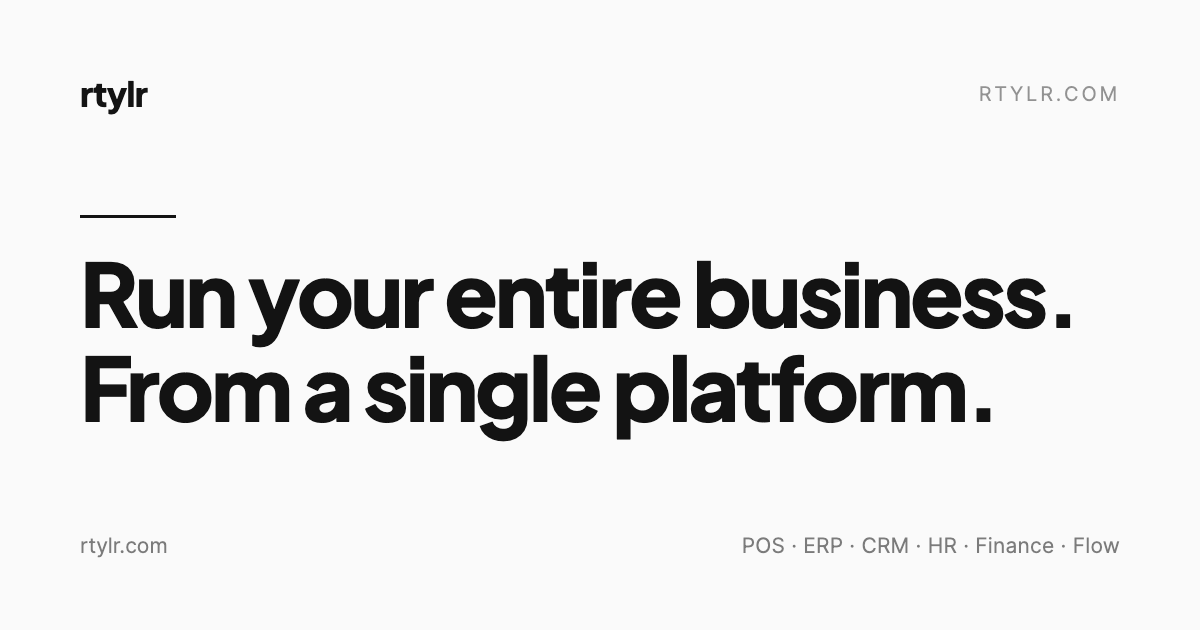
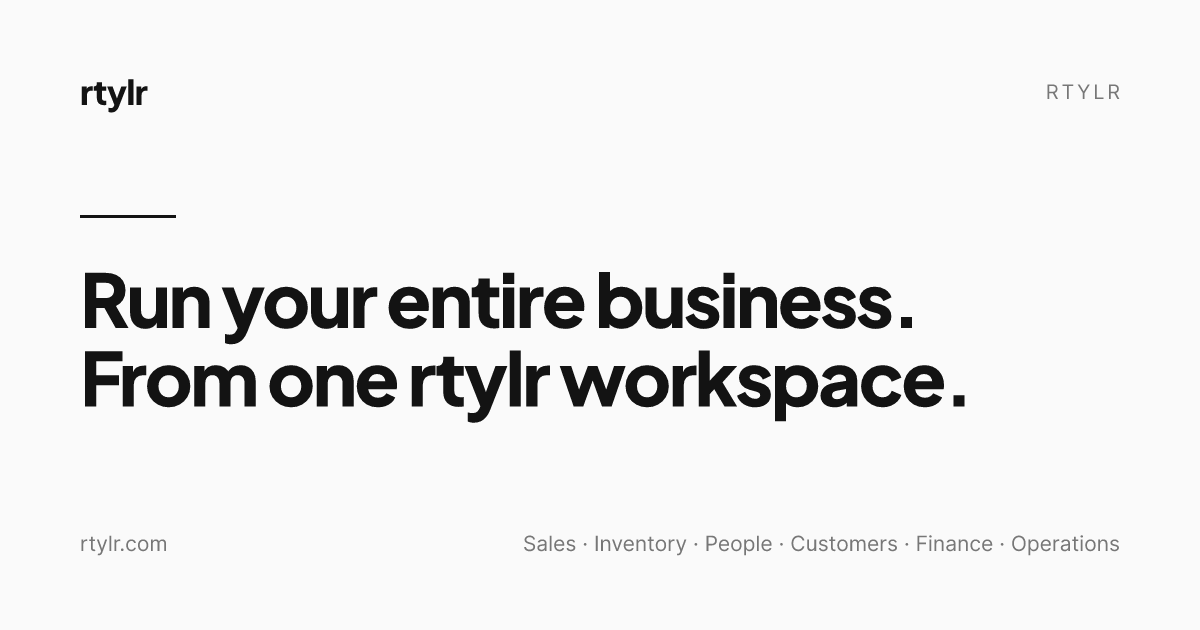
Reframe landing copy around rtylr suite

diff --git a/apps/landing/pages/about/index.tsx b/apps/landing/pages/about/index.tsx
@@ -26,8 +26,6 @@ const CLUSTER_APPS: string[][] = [
   ['HR', 'Flow', 'Insights'],
 ];
 
-
-
 const AboutPage = (): React.JSX.Element => {
   const { t } = useTranslation();
   const clusters = t('about.clusters', { returnObjects: true }) as unknown as {
@@ -57,7 +55,7 @@ const AboutPage = (): React.JSX.Element => {
           canonical="https://rtylr.com/about/"
           structuredData={aboutPageSchema({
             description:
-              "We're building the operating system for commerce. One platform for POS, ERP, HR, CRM, Finance, Flow and Insights.",
+              "We're building the operating system for commerce. One rtylr suite for sales, inventory, people, customers, finance and operations.",
           })}
         />
 
@@ -78,9 +76,9 @@ const AboutPage = (): React.JSX.Element => {
                 <Lines text={t('about.hero.title')} />
               </motion.h1>
               <motion.p className={styles.heroSubtitle} variants={blurFadeIn}>
-                Most small businesses run on six to eight disconnected apps. They export CSVs all
-                Friday. They reconcile on Sundays. They pay for integrations they hate. We think
-                that&apos;s a bug in the industry. rtylr is our fix.
+                Many small businesses still run on disconnected tools. They export CSVs all Friday.
+                They reconcile on Sundays. They pay for integrations they hate. We think that&apos;s
+                a bug in the industry. rtylr is our fix.
               </motion.p>
             </div>
           </motion.section>
@@ -100,9 +98,10 @@ const AboutPage = (): React.JSX.Element => {
                   <h2 className={styles.missionTitle}>{t('about.mission.title')}</h2>
                   <p className={styles.missionBody}>
                     Commerce software should work the way commerce does, one sale, one inventory
-                    drop, one payroll line, one customer record. Not seven apps pretending they talk
-                    to each other. rtylr replaces the whole stack with a single platform where
-                    everything updates at once, because it&apos;s all the same database underneath.
+                    drop, one payroll line, one customer record. Not a collection of disconnected
+                    tools pretending to be one system. rtylr replaces the whole stack with a single
+                    suite where everything updates at once, because it is all the same data model
+                    underneath.
                   </p>
                 </motion.div>
               </div>
@@ -127,19 +126,19 @@ const AboutPage = (): React.JSX.Element => {
               <motion.div className={styles.storyBody} variants={blurFadeIn}>
                 <p>
                   We kept watching businesses in Lebanon and across the region stitch together
-                  QuickBooks for the books, a standalone POS for the register, a separate HR portal
-                  for payroll, and a CRM that never talked to any of them. Every week the owner
-                  spent Friday exporting CSVs and Sunday reconciling them.
+                  QuickBooks for the books, a point-of-sale system for the register, a separate HR
+                  portal for payroll, and a CRM that never talked to any of them. Every week the
+                  owner spent Friday exporting CSVs and Sunday reconciling them.
                 </p>
                 <p>
-                  The tools were fine. The problem was that they were separate. Seven subscriptions,
-                  seven UIs, seven places your data could disagree with itself. And somehow, the
-                  customer still got billed for &ldquo;integrations.&rdquo;
+                  The tools were fine. The problem was that they were separate. Multiple
+                  subscriptions, multiple UIs, multiple places your data could disagree with itself.
+                  And somehow, the customer still got billed for &ldquo;integrations.&rdquo;
                 </p>
                 <p>
                   So in 2024 Abed and Mohammad left their corporate roles and started building what
-                  should have existed all along, a single platform for the whole business, with AI
-                  wired in from the ground floor.
+                  should have existed all along, a single rtylr suite for the whole business, with
+                  AI wired in from the ground floor.
                 </p>
               </motion.div>
             </div>
@@ -222,16 +221,14 @@ const AboutPage = (): React.JSX.Element => {
             <div className={styles.sectionContainer}>
               <motion.div className={styles.ctaInner} variants={blurFadeIn}>
                 <h2 className={styles.ctaTitle}>{t('about.cta.title')}</h2>
-                <p className={styles.ctaSubtitle}>
-                {t('about.cta.subtitle')}
-              </p>
+                <p className={styles.ctaSubtitle}>{t('about.cta.subtitle')}</p>
                 <div className={styles.ctaButtons}>
                   <button className={styles.ctaPrimary} onClick={handleGetStarted}>
-                {t('common.cta.getStarted')}
-              </button>
+                    {t('common.cta.getStarted')}
+                  </button>
                   <button className={styles.ctaSecondary} onClick={handleBookDemo}>
-                {t('common.cta.bookDemo')}
-              </button>
+                    {t('common.cta.bookDemo')}
+                  </button>
                 </div>
               </motion.div>
             </div>

diff --git a/apps/landing/components/home/CTASection/CTAGraphic.tsx b/apps/landing/components/home/CTASection/CTAGraphic.tsx
@@ -1,5 +1,14 @@
 import React, { useState } from 'react';
-import { ShoppingCart, Package, Users, Heart, DollarSign, Workflow, BarChart2, Share2 } from 'lucide-react';
+import {
+  ShoppingCart,
+  Package,
+  Users,
+  Heart,
+  DollarSign,
+  Workflow,
+  BarChart2,
+  Share2,
+} from 'lucide-react';
 import styles from './CTAGraphic.module.scss';
 
 interface OrbitNode {
@@ -8,9 +17,8 @@ interface OrbitNode {
   Icon: React.ComponentType<{ size?: number; strokeWidth?: number }>;
 }
 
-// Same seven apps/icons as ProductsSection, in orbit around the shared
-// database - deliberately not POS-centric, since the whole platform is the
-// point, not any one app.
+// The suite capabilities orbit the shared data model - deliberately not
+// POS-centric, since the whole suite is the point, not any one workflow.
 const NODES: OrbitNode[] = [
   { id: 'pos', label: 'POS', Icon: ShoppingCart },
   { id: 'erp', label: 'ERP', Icon: Package },
@@ -37,7 +45,12 @@ const CTAGraphic: React.FC = (): React.JSX.Element => {
 
   return (
     <div className={styles.graphic}>
-      <svg className={styles.lines} viewBox="0 0 100 100" preserveAspectRatio="xMidYMid meet" aria-hidden="true">
+      <svg
+        className={styles.lines}
+        viewBox="0 0 100 100"
+        preserveAspectRatio="xMidYMid meet"
+        aria-hidden="true"
+      >
         {NODES.map((node, i) => {
           const { x, y } = nodePosition(i, NODES.length);
           return (
@@ -75,7 +88,9 @@ const CTAGraphic: React.FC = (): React.JSX.Element => {
             <span className={hovered === i ? styles.nodeCircleActive : styles.nodeCircle}>
               <Icon size={18} strokeWidth={1.6} />
             </span>
-            <span className={hovered === i ? styles.nodeLabelActive : styles.nodeLabel}>{node.label}</span>
+            <span className={hovered === i ? styles.nodeLabelActive : styles.nodeLabel}>
+              {node.label}
+            </span>
           </button>
         );
       })}

diff --git a/apps/landing/components/home/FeaturesSection/FeaturesSection.tsx b/apps/landing/components/home/FeaturesSection/FeaturesSection.tsx
@@ -61,7 +61,7 @@ const FeaturesSection: React.FC = (): React.JSX.Element => {
   const FEATURES: Feature[] = FEATURE_META.map((meta, i) => ({
     ...meta,
     ...items[i],
-    ctaText: t('home.features.openCta', { app: meta.category }),
+    ctaText: t('home.features.openCta', { capability: meta.category }),
   }));
 
   const active = FEATURES[activeIndex];
@@ -183,7 +183,7 @@ const FeaturesSection: React.FC = (): React.JSX.Element => {
                 <button
                   key={f.id}
                   type="button"
-                  aria-label={t('home.features.showLabel', { app: f.category })}
+                  aria-label={t('home.features.showLabel', { capability: f.category })}
                   aria-pressed={i === activeIndex}
                   onClick={() => selectFeature(i)}
                   className={cn(styles.progressDot, i === activeIndex && styles.progressDotActive)}

diff --git a/apps/landing/lib/structured-data.ts b/apps/landing/lib/structured-data.ts
@@ -341,7 +341,7 @@ export function organizationSchema(): Record<string, unknown> {
     url: BASE,
     logo: `${BASE}/favicon/android-chrome-512x512.png`,
     description:
-      'All-in-one business OS for modern teams. POS, ERP, CRM, HR, Finance, and Flow in a single platform.',
+      'The rtylr suite for modern teams, connecting sales, inventory, people, customers, finance and operations on one shared data model.',
     foundingDate: '2024',
     sameAs: ['https://voxire.com'],
     address: {
@@ -365,7 +365,7 @@ export function webSiteSchema(): Record<string, unknown> {
     '@type': 'WebSite',
     name: 'rtylr',
     url: BASE,
-    description: 'Your entire business, one platform.',
+    description: 'One rtylr suite for your entire business, on one connected workspace.',
     publisher: { '@type': 'Organization', name: 'rtylr', url: BASE },
   };
 }

diff --git a/apps/landing/lib/seoUtils.test.ts b/apps/landing/lib/seoUtils.test.ts
@@ -12,7 +12,7 @@ import {
 
 describe('buildPageTitle', () => {
   it('returns default title when no argument is provided', () => {
-    expect(buildPageTitle()).toBe('rtylr - Your Entire Business, One Platform');
+    expect(buildPageTitle()).toBe('rtylr - One Suite for Your Entire Business');
   });
 
   it('appends site name for a custom page title', () => {
@@ -20,7 +20,7 @@ describe('buildPageTitle', () => {
   });
 
   it('returns the default title unchanged when passed directly', () => {
-    const defaultTitle = 'rtylr - Your Entire Business, One Platform';
+    const defaultTitle = 'rtylr - One Suite for Your Entire Business';
     expect(buildPageTitle(defaultTitle)).toBe(defaultTitle);
   });
 });

diff --git a/apps/landing/lib/seoUtils.ts b/apps/landing/lib/seoUtils.ts
@@ -4,9 +4,9 @@
  */
 
 const BASE_URL = 'https://rtylr.com';
-const DEFAULT_TITLE = 'rtylr - Your Entire Business, One Platform';
+const DEFAULT_TITLE = 'rtylr - One Suite for Your Entire Business';
 const DEFAULT_DESCRIPTION =
-  'rtylr is an all-in-one business OS. POS, ERP, CRM, HR, Finance, and Flow in a single platform.';
+  'The rtylr suite connects sales, inventory, people, customers, finance and operations in one workspace.';
 
 /**
  * Builds the full page title, appending the site name when the page

diff --git a/apps/landing/e2e/landing.spec.ts b/apps/landing/e2e/landing.spec.ts
@@ -20,7 +20,7 @@ test.describe('Landing page', () => {
     await page.goto(`${LANDING_URL}/pricing`);
     // Heading is unique per page so it's a stable anchor - beats
     // scanning for "Free"/"Pro"/"Scale" which appear 11 times.
-    await expect(page.getByRole('heading', { level: 1, name: /all 7 apps/i })).toBeVisible();
+    await expect(page.getByRole('heading', { level: 1, name: /one rtylr suite/i })).toBeVisible();
   });
 
   test('pricing page states no price anywhere', async ({ page }) => {

diff --git a/apps/landing/components/home/ProductsSection/ProductsSection.tsx b/apps/landing/components/home/ProductsSection/ProductsSection.tsx
@@ -86,7 +86,7 @@ const ProductCard: React.FC<ProductCardProps> = ({
       <Link
         href={product.href}
         className={styles.cardArrow}
-        aria-label={t('home.products.exploreLabel', { app: product.label })}
+        aria-label={t('home.products.exploreLabel', { capability: product.label })}
       >
         {t('home.products.explore')}
       </Link>

diff --git a/apps/landing/components/HelmetContainer.tsx b/apps/landing/components/HelmetContainer.tsx
@@ -76,7 +76,7 @@ function ogImageFor(canonicalUrl: string): string {
 }
 
 function HelmetContainer({
-  title = 'rtylr · Your entire business, one platform.',
+  title = 'rtylr · One suite for your entire business.',
   description = '',
   image = '',
   url = '',
